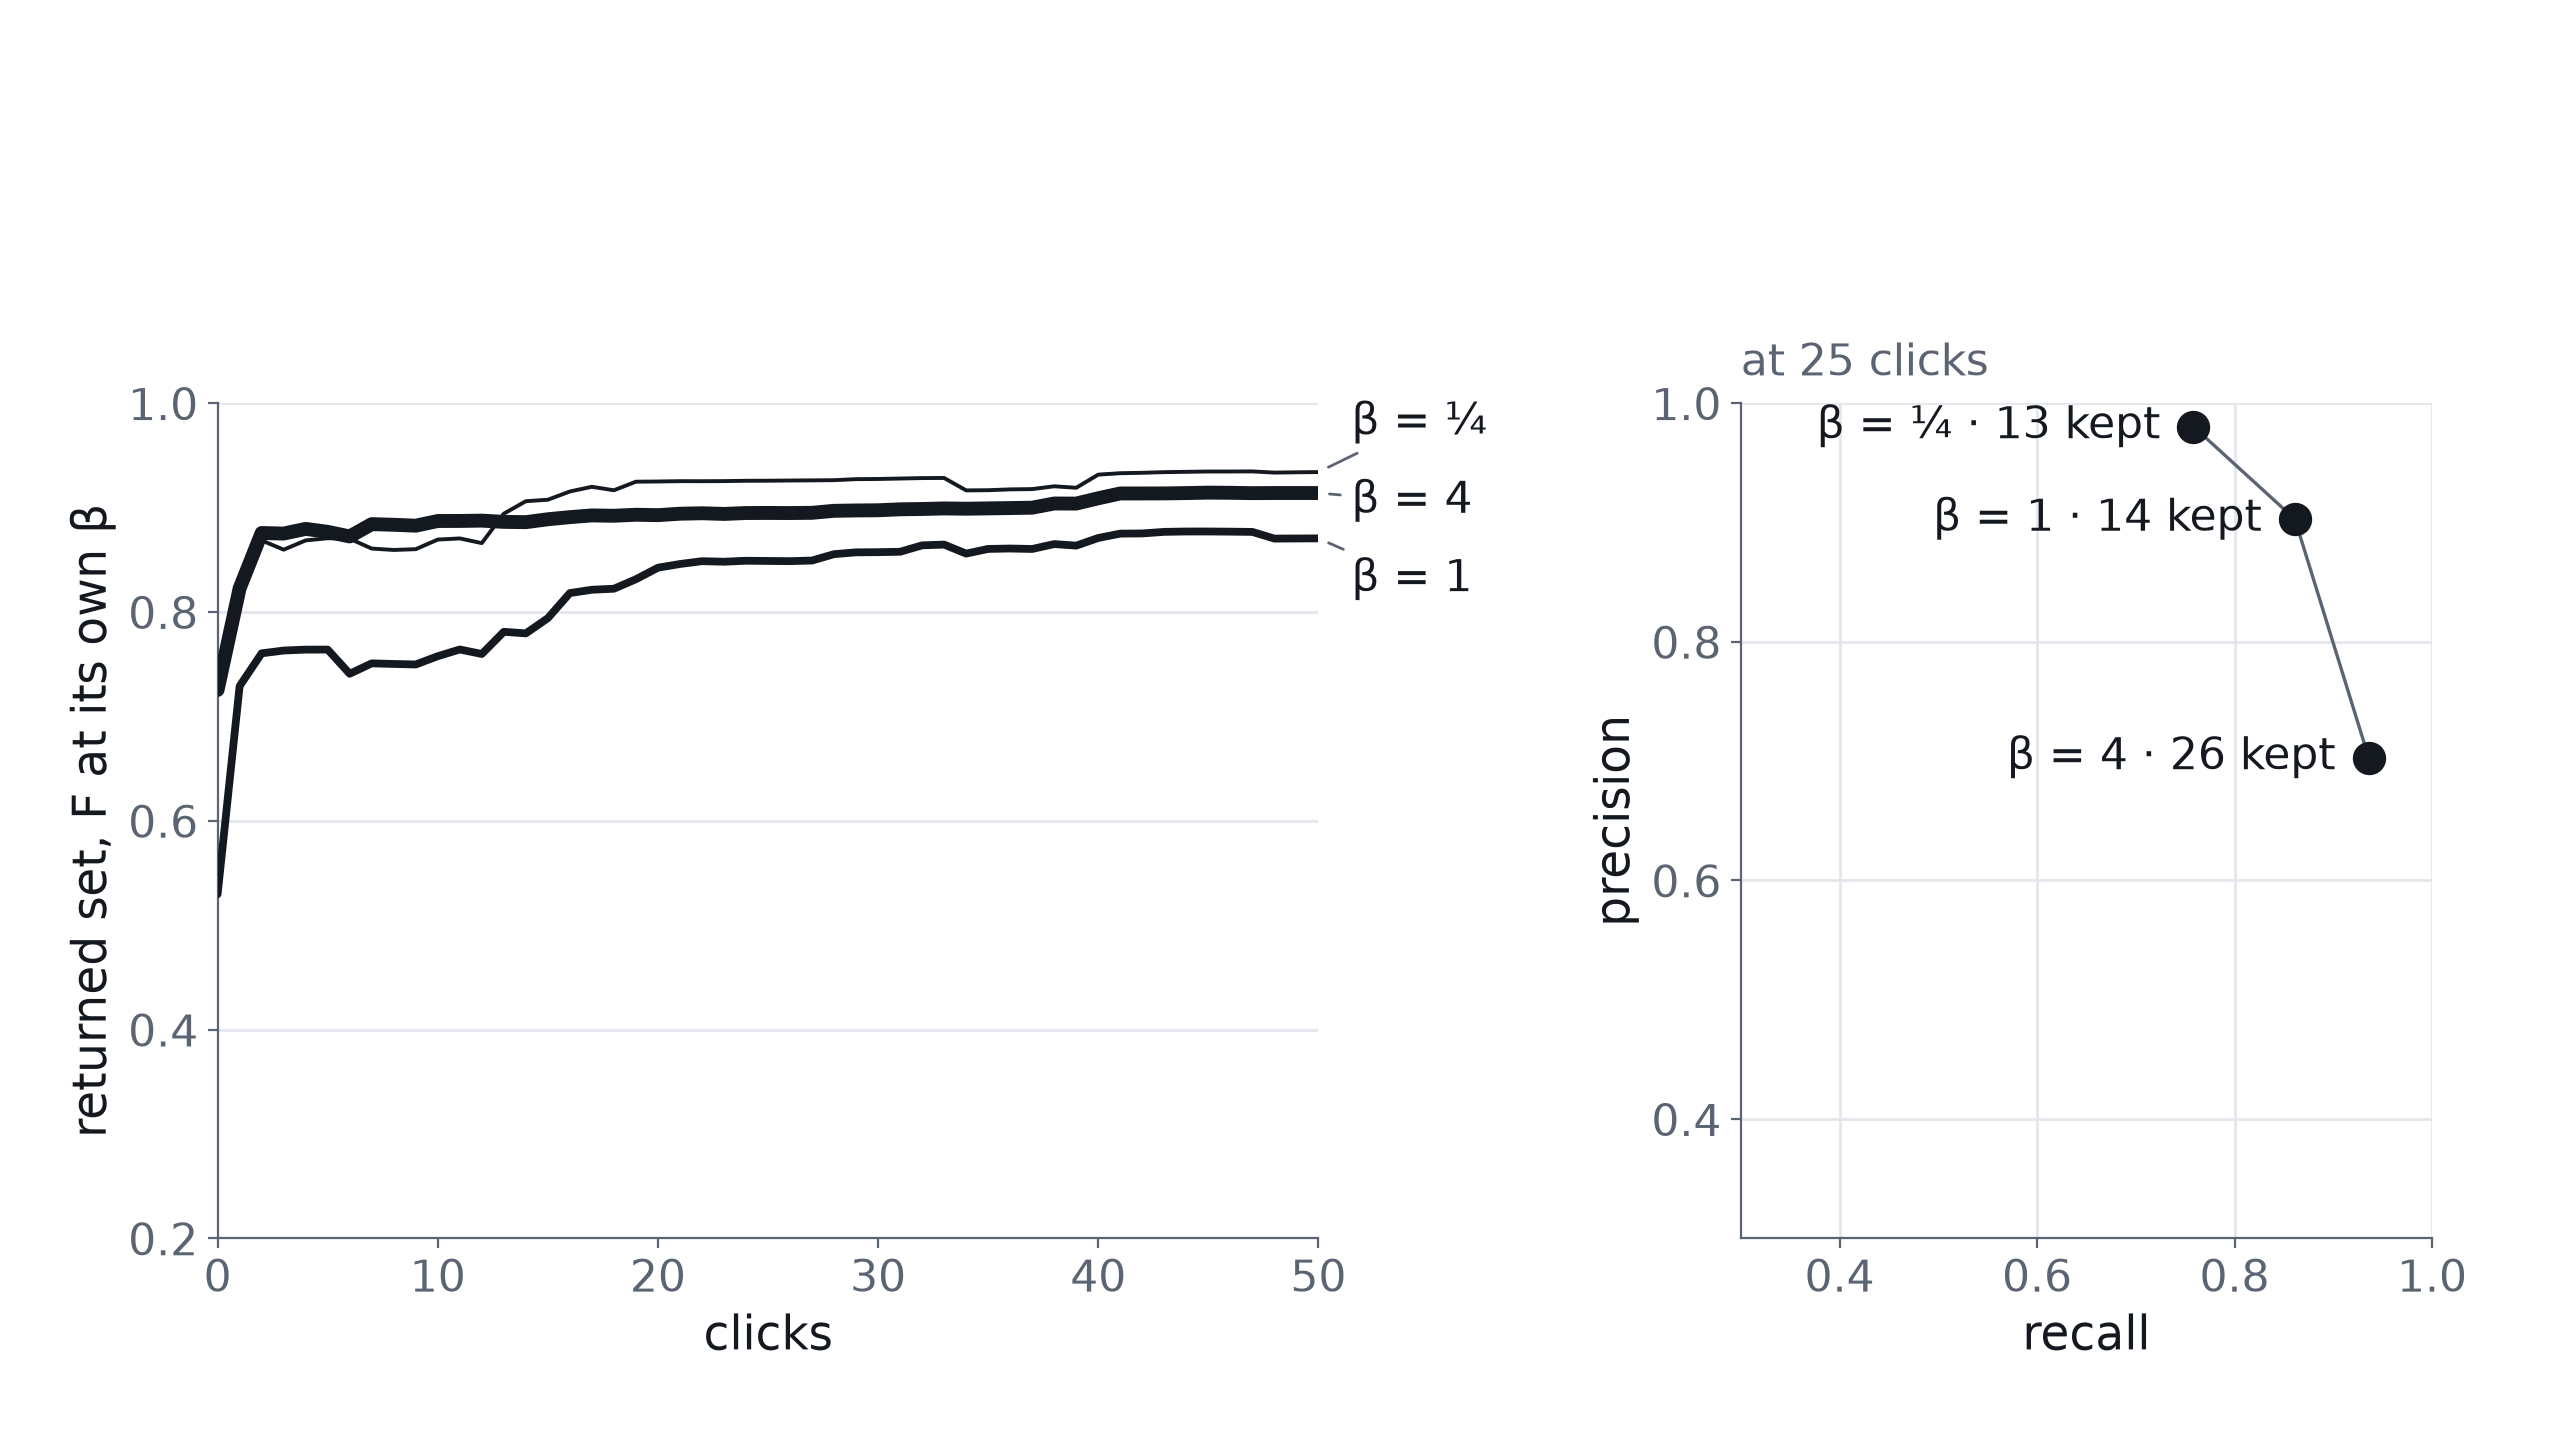
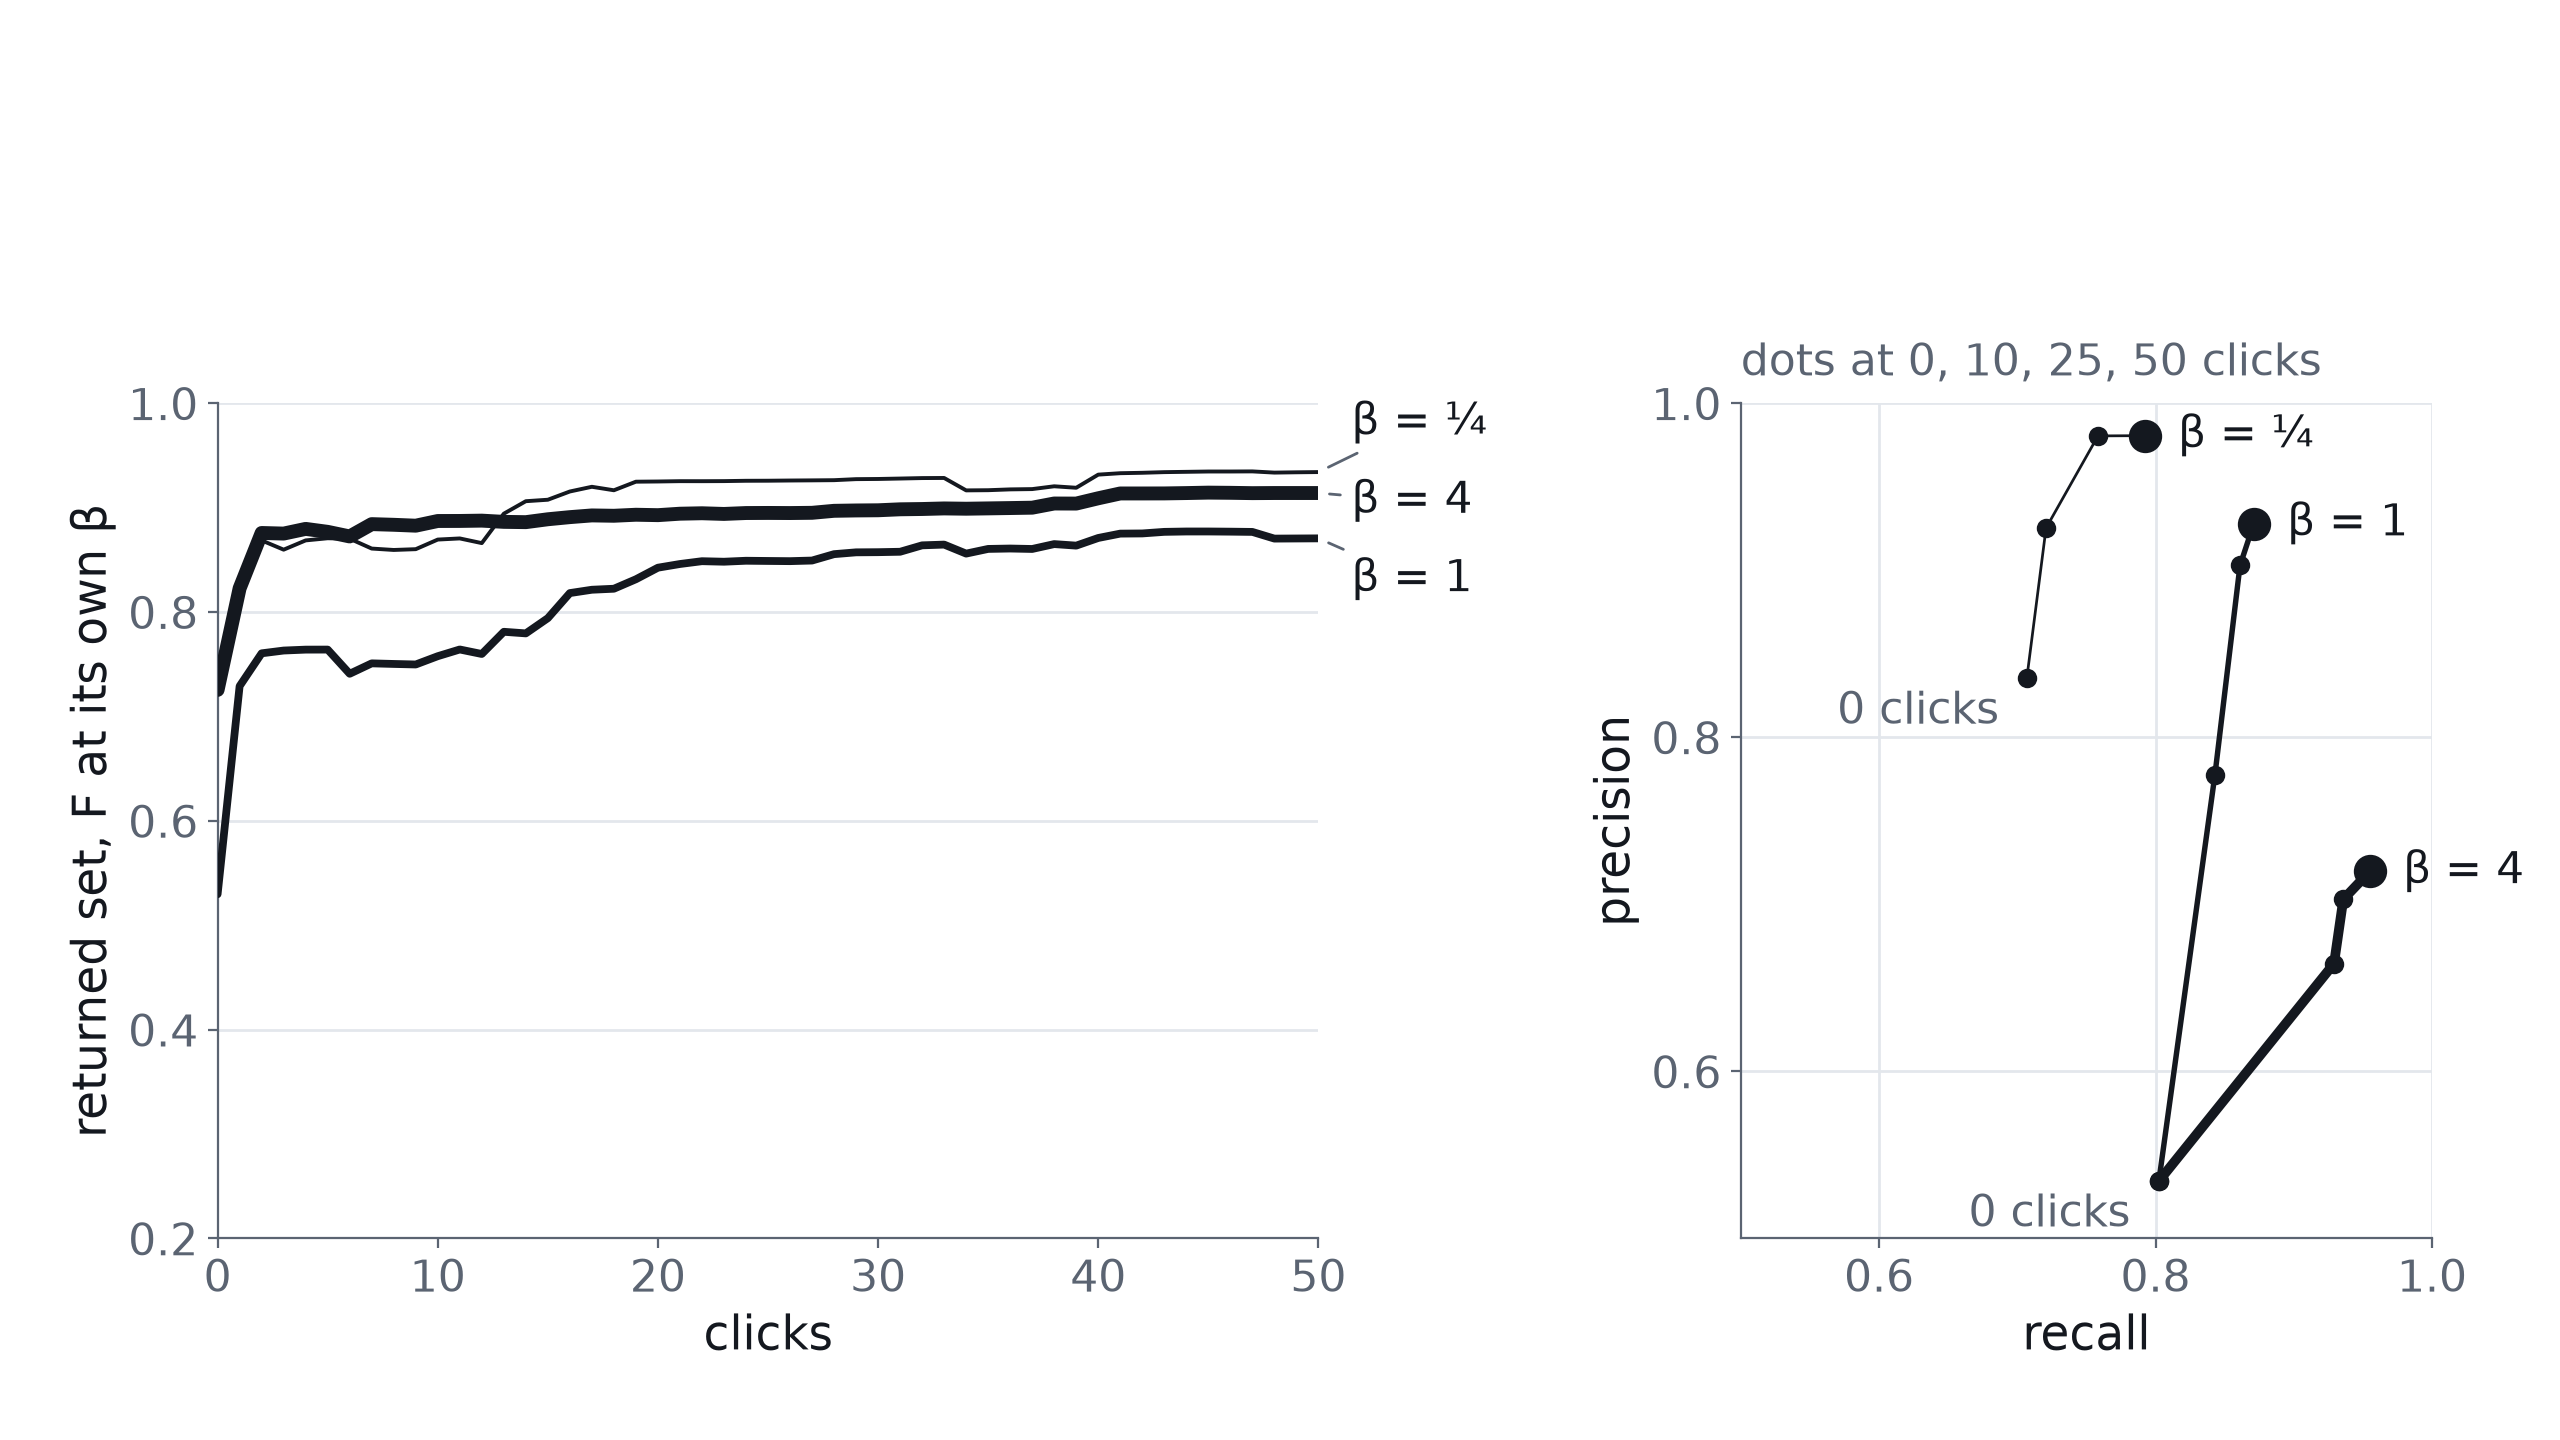
WIP #4517: Looks Good on Paper draws each radio's precision-recall path through the session

diff --git a/slides/figs/src/make-sota-figs.py b/slides/figs/src/make-sota-figs.py
@@ -13,7 +13,11 @@ way it read the first:
   an F at 4 are different scores);
 * **right** — the same three returned sets as precision against recall, which
   is the trade the radio sets, drawn on one pair of axes so the three can be
-  compared.
+  compared. On documents, where the per-step CSVs carry both at every click,
+  each radio is a path through the session (#4517): a dot at each of
+  `DOC_PR_CLICKS`, joined in order, drawn at the radio's own line weight.
+  The photo slide gets the same paths once its review commits precision and
+  recall per click (#4519).
 
 The photo slide is the binary-photo review (SigLIP, binary votes, COCO Better,
 `docs/experiments/2026-10-04-state-of-the-app-binary-photo/`). Its per-run
@@ -82,8 +86,9 @@ DOC_RUNS: dict[float, tuple[Path, ...]] = {
 }
 #: Classes x replicates every document click must cover, and the clicks.
 DOC_ROWS, DOC_CLICKS = 72, 50
-#: The click the document slide's right panel is read at.
-DOC_PR_CLICK = 25
+#: The clicks the document slide's precision-recall paths put a dot at: the
+#: query crop alone, then through the session to its last click.
+DOC_PR_CLICKS = (0, 10, 25, 50)
 
 #: What the presenter notes quote, rounded as the notes say them.
 EXPECT = {
@@ -96,11 +101,11 @@ EXPECT = {
     ("photos", 0.25, "precision"): 0.70,
     ("photos", 4.0, "recall"): 0.68,
     ("documents", 0.25, "precision"): 0.98,
-    ("documents", 1.0, "precision"): 0.90,
-    ("documents", 4.0, "recall"): 0.94,
+    ("documents", 1.0, "precision"): 0.93,
+    ("documents", 4.0, "recall"): 0.95,
     ("documents", 0.25, "kept"): 13,
     ("documents", 1.0, "kept"): 14,
-    ("documents", 4.0, "kept"): 26,
+    ("documents", 4.0, "kept"): 25,
     ("documents", 1.0, "f50"): 0.87,
 }
 
@@ -172,7 +177,11 @@ def photo_data() -> dict[float, dict]:
 
 
 def doc_data() -> dict[float, dict]:
-    """Per radio: mean returned-set F-beta at its own beta by click, and the set at `DOC_PR_CLICK`."""
+    """Per radio: mean returned-set F-beta at its own beta by click, and its set at every `DOC_PR_CLICKS`.
+
+    The top-level precision, recall and kept are the session's last click,
+    where the path ends and its label sits.
+    """
     out = {}
     for beta, paths in DOC_RUNS.items():
         by_v: dict[int, list[tuple[float, float, float, int]]] = {}
@@ -187,14 +196,22 @@ def doc_data() -> dict[float, dict]:
         clicks = sorted(by_v)
         if clicks != list(range(DOC_CLICKS + 1)) or any(len(by_v[v]) != DOC_ROWS for v in clicks):
             raise SystemExit(f"make-sota-figs: the beta {beta:g} document runs do not cover every class and click")
-        at = np.array(by_v[DOC_PR_CLICK])
+        path = []
+        for click in DOC_PR_CLICKS:
+            at = np.array(by_v[click])
+            path.append(
+                {
+                    # Precision is over the classes that returned something, as the reviews read it.
+                    "precision": float(np.nanmean(at[:, 1])),
+                    "recall": float(at[:, 2].mean()),
+                    "kept": int(np.median(at[:, 3])),
+                }
+            )
         out[beta] = {
             "clicks": clicks,
             "f": [float(np.mean([r[0] for r in by_v[v]])) for v in clicks],
-            # Precision is over the classes that returned something, as the reviews read it.
-            "precision": float(np.nanmean(at[:, 1])),
-            "recall": float(at[:, 2].mean()),
-            "kept": int(np.median(at[:, 3])),
+            "path": path,
+            **path[-1],
         }
     return out
 
@@ -261,6 +278,70 @@ def _pr_panel(fig: Figure, sets: dict[float, dict], note: str) -> None:
             color=INK,
         )
     ax.set_title(note, fontsize=16, color=SOFT, loc="left", pad=10)
+
+
+#: The paths' axes: zoomed to where the document sets live, the same span on
+#: both so precision and recall still share a scale.
+PR_PATH_LIM = (0.5, 1.0)
+
+
+def _pr_paths_panel(fig: Figure, sets: dict[float, dict]) -> None:
+    """Precision against recall, one path per radio through the session's clicks.
+
+    Each radio is drawn at the weight the left panel gives it, so a path and its
+    F line are one object on two axes, and nothing joins the radios to one
+    another: what the panel shows is how each one's set moves as votes arrive.
+    A dot marks each of `DOC_PR_CLICKS`, the panel's note says which, and each
+    path is labelled where it ends; how many each returns is in the notes, since
+    a count beside every end would not fit the panel.
+    """
+    ax = fig.add_axes(RIGHT_AXES)
+    ax.set_xlim(*PR_PATH_LIM)
+    ax.set_ylim(*PR_PATH_LIM)
+    ticks = [0.6, 0.8, 1.0]
+    ax.set_xticks(ticks)
+    ax.set_yticks(ticks)
+    ax.grid(True, color="#e3e7ec", lw=1.0)
+    ax.set_axisbelow(True)
+    ax.set_xlabel("recall")
+    ax.set_ylabel("precision")
+    starts = set()
+    for beta, label, weight in RADIOS:
+        path = sets[beta]["path"]
+        xs = [point["recall"] for point in path]
+        ys = [point["precision"] for point in path]
+        ax.plot(xs, ys, color=INK, lw=weight * 0.7, solid_capstyle="round", solid_joinstyle="round", zorder=3)
+        ax.plot(xs[:-1], ys[:-1], ls="none", marker="o", markersize=6, color=INK, zorder=4)
+        ax.plot(xs[-1:], ys[-1:], ls="none", marker="o", markersize=11, color=INK, zorder=4)
+        ax.annotate(
+            label,
+            (xs[-1], ys[-1]),
+            xytext=(12, 0),
+            textcoords="offset points",
+            ha="left",
+            va="center",
+            fontsize=16,
+            color=INK,
+            annotation_clip=False,
+        )
+        starts.add((round(xs[0], 3), round(ys[0], 3)))
+    # Where each path leaves from. The middle and recall-end runs leave from
+    # one dot, the query crop alone; the precision end's rule trims even that.
+    for x, y in sorted(starts):
+        left = x < sum(PR_PATH_LIM) / 2 + 0.25
+        ax.annotate(
+            "0 clicks",
+            (x, y),
+            xytext=(-10 if left else 10, -4),
+            textcoords="offset points",
+            ha="right" if left else "left",
+            va="top",
+            fontsize=16,
+            color=SOFT,
+            annotation_clip=False,
+        )
+    clicks = ", ".join(str(c) for c in DOC_PR_CLICKS)
+    ax.set_title(f"dots at {clicks} clicks", fontsize=16, color=SOFT, loc="left", pad=10)
 
 
 def _f_panel(fig: Figure, lines: dict[float, tuple[list, list]], xlim, xticks, xlabel: str, extra=None) -> plt.Axes:
@@ -331,7 +412,7 @@ def doc_figure(data: dict[float, dict], stage: int) -> Figure:
     lines = {b: (data[b]["clicks"], data[b]["f"]) for b in data}
     _f_panel(fig, lines, (0, DOC_CLICKS), [0, 10, 20, 30, 40, 50], "clicks")
     if stage >= 2:
-        _pr_panel(fig, data, f"at {DOC_PR_CLICK} clicks")
+        _pr_paths_panel(fig, data)
     return fig
 
 

diff --git a/slides/fragments/sota-documents.md b/slides/fragments/sota-documents.md
@@ -16,10 +16,14 @@
      little moves after 25; β 1 ends at F1 0.87. The ranking under the line:
      AP 0.79 from the crop alone, 0.92 at 25 clicks, 0.94 at 50. -->
 
-<!-- **b** — Right, at 25 clicks: 13 pages at precision 0.98 and recall 0.76;
-     14 at 0.90 and 0.86; 26 at 0.70 and 0.94. The same trade as on photos,
-     higher up. The β 1/4 run is in sample, since its rule was refit on these
-     classes; its cross-validated gain is on the last slide. -->
+<!-- **b** — Right: each radio's set as precision against recall, followed
+     through the session, a dot at 0, 10, 25 and 50 clicks. The middle and
+     recall end leave one dot, the crop alone; the precision end's rule trims
+     even that. Each climbs most by 10 and then drifts. At 50: 13 pages at
+     precision 0.98 and recall 0.79; 14 at 0.93 and 0.87; 25 at 0.72 and
+     0.95. The same trade as on photos, higher up. The β 1/4 run is in sample,
+     its rule refit on these classes; its cross-validated gain is on the last
+     slide. -->
 
 <!-- Weak spots: 35 to 42 positives beyond the 2,000-page shortlist, mostly in
      two classes; the Bad ceiling's recall cost in one Tobacco800 class; and
